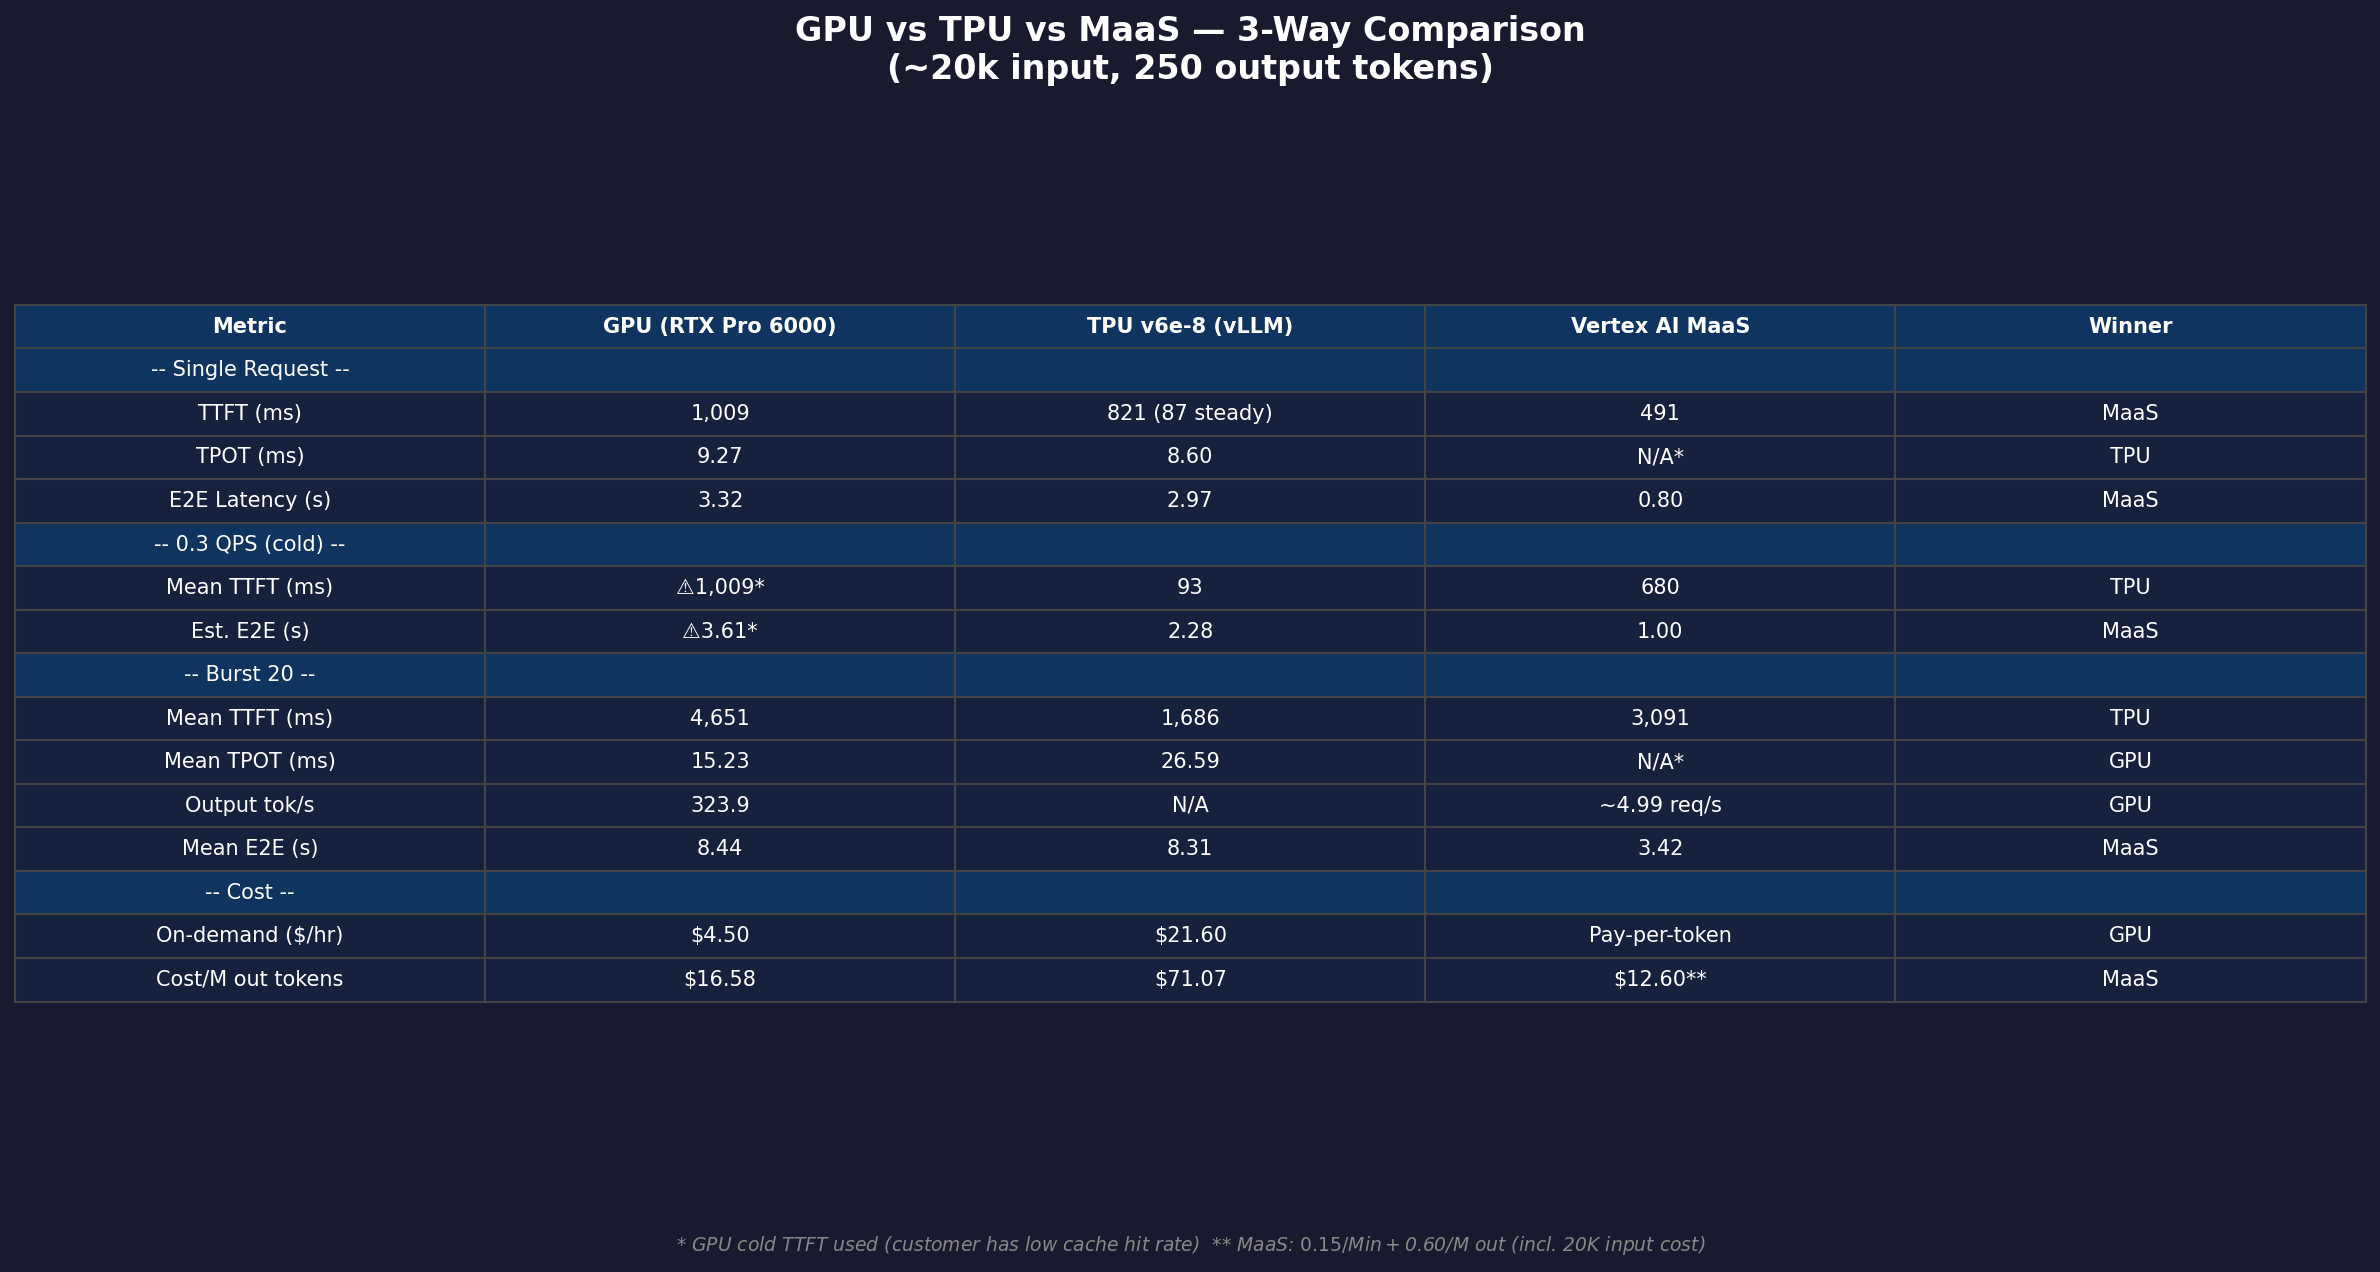
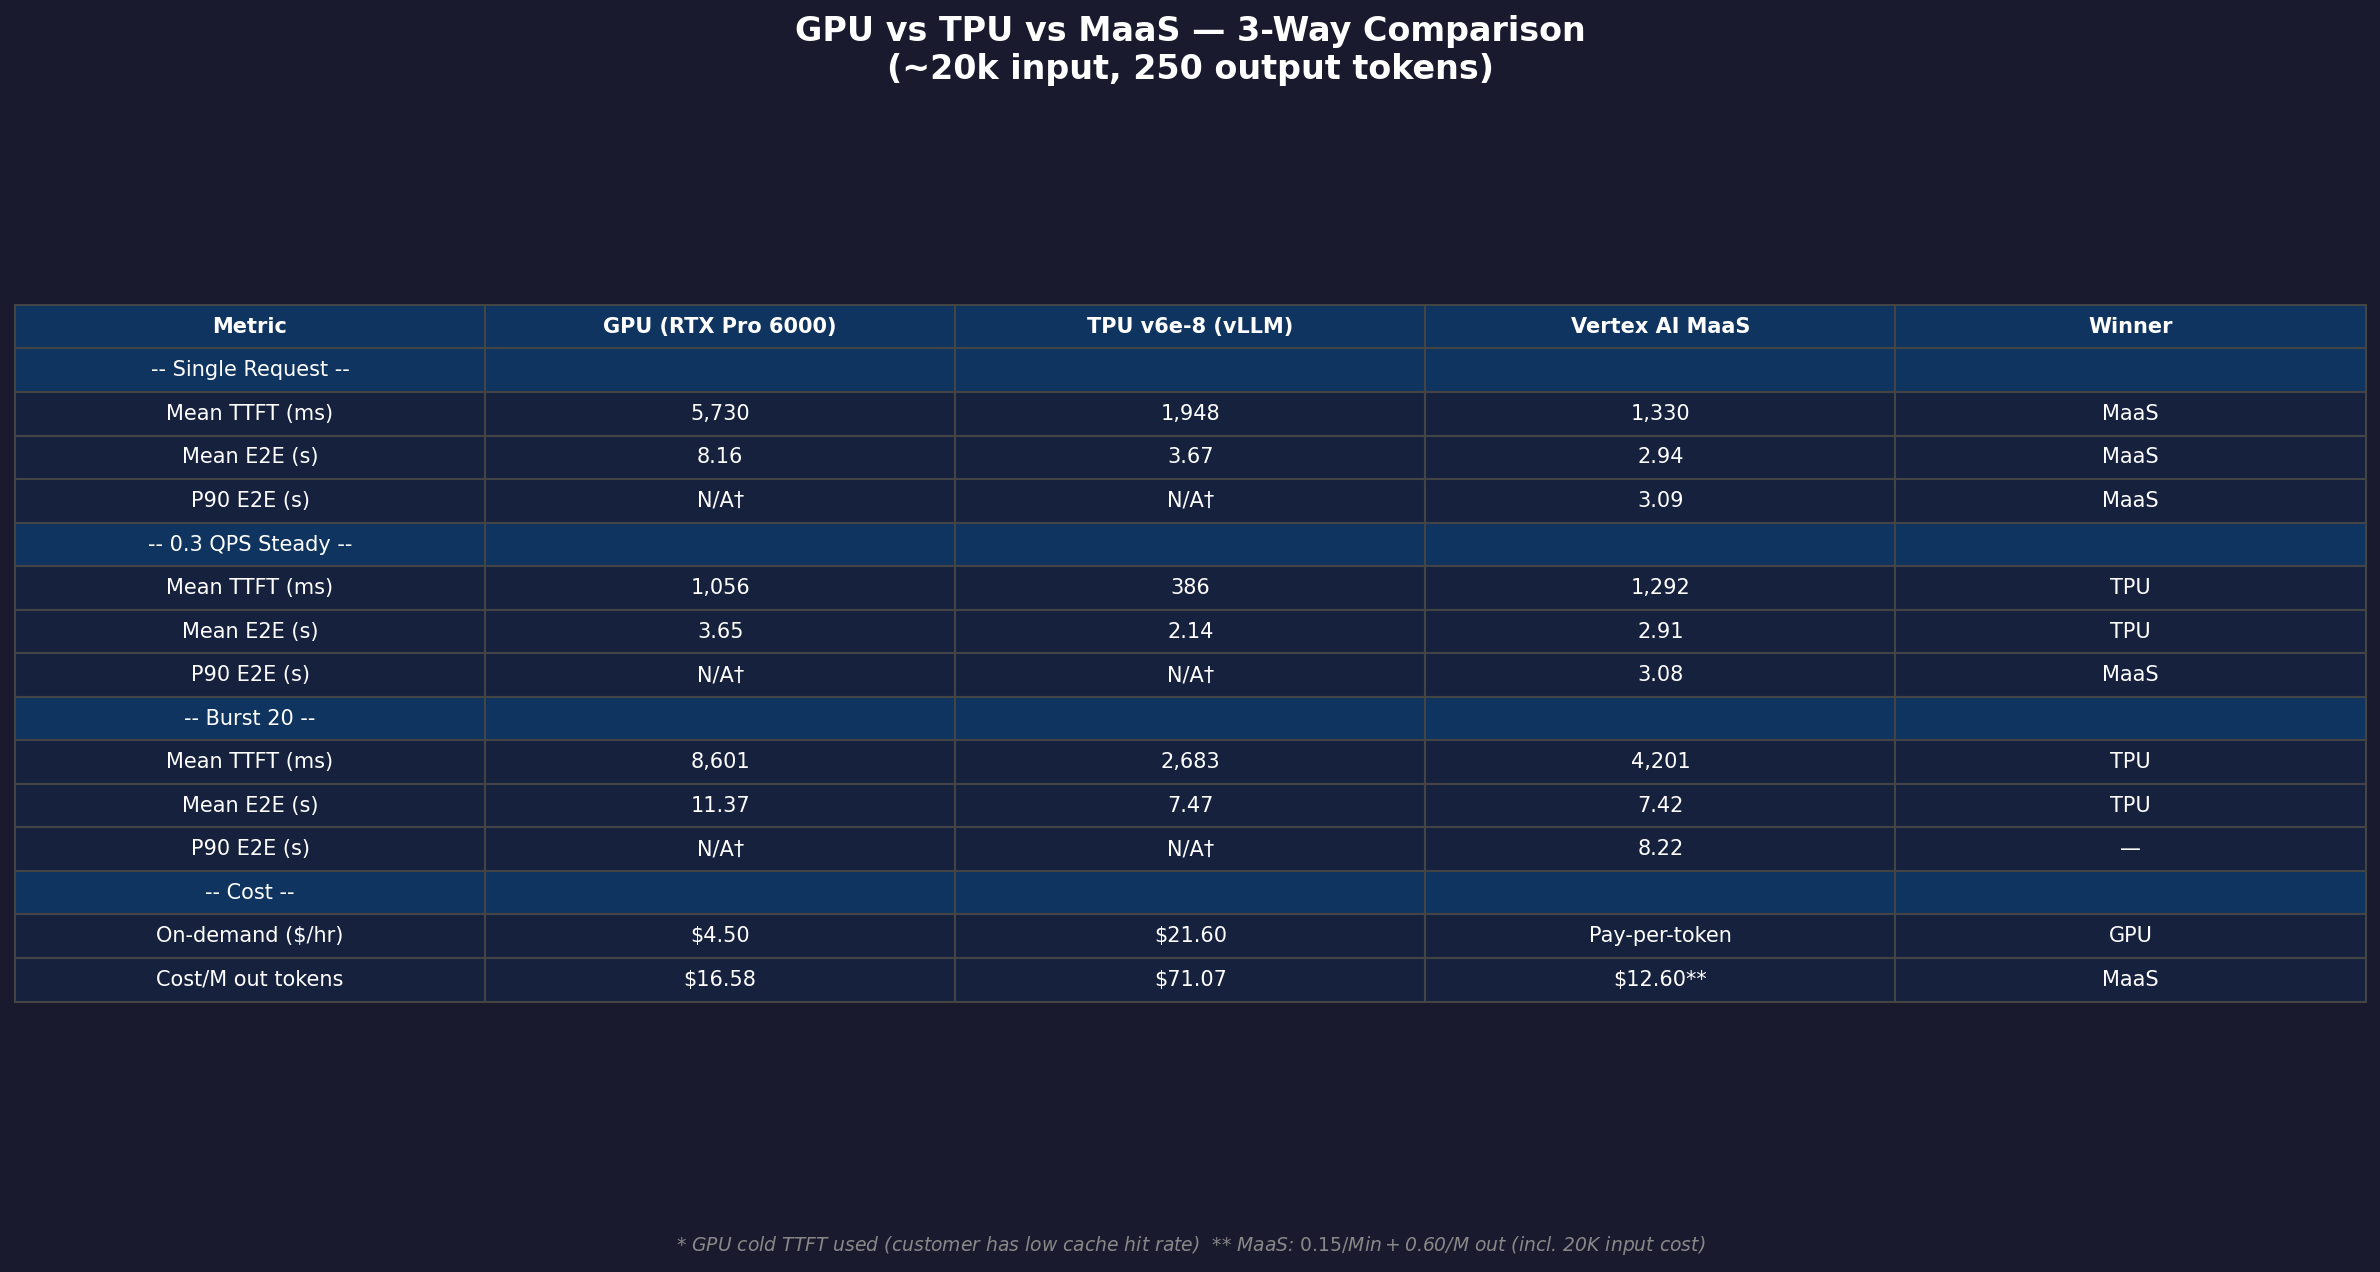
Add P90 E2E latency to plots 09, 10, 14 (customer SLA metric)
- Plot 09: Panels 2-4 now show P90 E2E for MaaS (mean† for GPU/TPU)
- Plot 10: Table includes P90 E2E rows for each scenario
- Plot 14: QPS + burst panels show both mean (dashed) and P90 (solid) E2E
- Burst sweep panel now shows E2E instead of TTFT (more customer-relevant)

diff --git a/scripts/generate-plots.py b/scripts/generate-plots.py
@@ -150,31 +150,41 @@ vai_burst = [
 # Fair comparison: unique prompts prevent prefix caching (like customer workload)
 # =============================================================================
 
+# Single request baseline (10 cold runs, fresh prompts)
+maas_baseline = {
+    'ttft_mean_ms': 1330.0,
+    'ttft_p90_ms': 1525.0,
+    'e2e_mean_s': 2.935,
+    'e2e_p90_s': 3.090,
+    'tpot_mean_ms': 6.34,
+    'tpot_p90_ms': 6.63,
+}
+
 # QPS sweep: 10 fresh random prompts per rate
 maas_qps = [
-    # (target_qps, mean_ttft_ms, median_ttft_ms, p99_ttft_ms, mean_latency_s, req_throughput)
-    (0.10, 1274.5, 1264.7, 1371.3, 2.903, 0.109),
-    (0.15, 1396.7, 1418.4, 1577.9, 3.024, 0.150),
-    (0.20, 1311.1, 1292.2, 1401.4, 2.941, 0.200),
-    (0.25, 1284.1, 1289.9, 1369.9, 2.945, 0.250),
-    (0.30, 1292.0, 1265.9, 1451.4, 2.912, 0.300),
-    (0.40, 1335.4, 1369.2, 1486.1, 3.005, 0.400),
-    (0.50, 1283.6, 1242.8, 1471.5, 2.932, 0.500),
-    (0.70, 1276.5, 1260.4, 1435.3, 3.273, 0.700),
-    (1.00, 1303.3, 1229.7, 1570.0, 3.371, 1.000),
+    # (target_qps, mean_ttft_ms, median_ttft_ms, p99_ttft_ms, mean_latency_s, req_throughput, p90_ttft_ms, p90_e2e_s)
+    (0.10, 1274.5, 1264.7, 1371.3, 2.903, 0.109, 1347.6, 2.935),
+    (0.15, 1396.7, 1418.4, 1577.9, 3.024, 0.150, 1527.3, 3.142),
+    (0.20, 1311.1, 1292.2, 1401.4, 2.941, 0.200, 1380.1, 3.052),
+    (0.25, 1284.1, 1289.9, 1369.9, 2.945, 0.250, 1344.7, 3.056),
+    (0.30, 1292.0, 1265.9, 1451.4, 2.912, 0.300, 1446.5, 3.079),
+    (0.40, 1335.4, 1369.2, 1486.1, 3.005, 0.400, 1440.3, 3.094),
+    (0.50, 1283.6, 1242.8, 1471.5, 2.932, 0.500, 1399.2, 3.054),
+    (0.70, 1276.5, 1260.4, 1435.3, 3.273, 0.700, 1378.9, 3.798),
+    (1.00, 1303.3, 1229.7, 1570.0, 3.371, 1.000, 1568.3, 3.610),
 ]
 
 # Burst sweep: all requests simultaneous, fresh random prompts
 maas_burst = [
-    # (N, mean_ttft_ms, median_ttft_ms, p99_ttft_ms, mean_latency_s, req_throughput)
-    ( 1, 1484.4, 1484.4, 1484.4, 3.805, 0.263),
-    ( 2, 1533.1, 1533.1, 1533.3, 3.635, 0.550),
-    ( 5, 1655.4, 1656.5, 2237.5, 3.925, 1.274),
-    ( 8, 1836.4, 1742.9, 2305.0, 4.450, 1.798),
-    (10, 2391.5, 2178.3, 3294.7, 5.120, 1.953),
-    (15, 3273.6, 3187.9, 3767.6, 6.169, 2.431),
-    (20, 4201.1, 4195.0, 5376.2, 7.423, 2.694),
-    (30, 5594.4, 5535.1, 6918.3, 9.058, 3.312),
+    # (N, mean_ttft_ms, median_ttft_ms, p99_ttft_ms, mean_latency_s, req_throughput, p90_ttft_ms, p90_e2e_s)
+    ( 1, 1484.4, 1484.4, 1484.4, 3.805, 0.263, 0.0, 0.000),
+    ( 2, 1533.1, 1533.1, 1533.3, 3.635, 0.550, 1533.2, 3.793),
+    ( 5, 1655.4, 1656.5, 2237.5, 3.925, 1.274, 2028.9, 4.204),
+    ( 8, 1836.4, 1742.9, 2305.0, 4.450, 1.798, 2116.2, 4.951),
+    (10, 2391.5, 2178.3, 3294.7, 5.120, 1.953, 2824.0, 6.106),
+    (15, 3273.6, 3187.9, 3767.6, 6.169, 2.431, 3703.2, 7.302),
+    (20, 4201.1, 4195.0, 5376.2, 7.423, 2.694, 4964.0, 8.221),
+    (30, 5594.4, 5535.1, 6918.3, 9.058, 3.312, 6376.5, 9.903),
 ]
 
 # =============================================================================
@@ -473,43 +483,57 @@ def plot_09():
     ax.set_title('Single Request: Mean TTFT', fontweight='bold', color='#ffd700')
     ax.grid(True, axis='y')
 
-    # Panel 2: Single E2E (from baseline dicts and burst[0] data)
+    # Panel 2: Single E2E — P90 (customer SLA metric)
     ax = axes[0,1]
-    vals = [rtx_baseline['e2e_s'], calc_e2e(tpu_baseline['ttft_ms'], tpu_baseline['tpot_ms'])/1000, maas_burst[0][4]]
+    # GPU/TPU: estimate P90 ≈ mean (only mean available from vllm bench)
+    # MaaS: actual measured P90 from 10 runs
+    vals = [rtx_baseline['e2e_s'], calc_e2e(tpu_baseline['ttft_ms'], tpu_baseline['tpot_ms'])/1000, maas_baseline['e2e_p90_s']]
     bars = ax.bar(labels, vals, color=colors, alpha=0.85, edgecolor='white', linewidth=0.5, width=0.6)
-    for b, v in zip(bars, vals):
-        ax.text(b.get_x()+b.get_width()/2, b.get_height()+0.05, f'{v:.2f}s', ha='center', va='bottom', fontweight='bold', color='white', fontsize=12)
+    annot_labels = [f'{vals[0]:.2f}s\n(mean†)', f'{vals[1]:.2f}s\n(mean†)', f'{vals[2]:.2f}s\n(P90)']
+    for b, v, lbl in zip(bars, vals, annot_labels):
+        ax.text(b.get_x()+b.get_width()/2, b.get_height()+0.05, lbl, ha='center', va='bottom', fontweight='bold', color='white', fontsize=11)
     ax.set_ylabel('E2E Latency (s)')
-    ax.set_title('Single Request: Mean E2E Latency', fontweight='bold', color='#ffd700')
+    ax.set_title('Single Request: E2E Latency (P90 where available)', fontweight='bold', color='#ffd700')
     ax.grid(True, axis='y')
     ax.axhline(y=3.5, color='#ff6b6b', linestyle='--', alpha=0.3, label='3.5s target')
     ax.legend(facecolor='#16213e', edgecolor='#444')
 
-    # Panel 3: Burst 20 TTFT (from burst arrays, N=20 index)
+    # Panel 3: Burst 20 E2E — P90 for MaaS, mean for GPU/TPU
     ax = axes[1,0]
-    vals = [rtx_burst[6][3], tpu_burst[6][1], maas_burst[6][1]]
+    gpu_b20_e2e = calc_e2e(rtx_burst[6][3], rtx_burst[6][4]) / 1000
+    tpu_b20_e2e = calc_e2e(tpu_burst[6][1], tpu_burst[6][4]) / 1000
+    maas_b20_p90 = maas_burst[6][7]  # P90 E2E
+    vals = [gpu_b20_e2e, tpu_b20_e2e, maas_b20_p90]
     bars = ax.bar(labels, vals, color=colors, alpha=0.85, edgecolor='white', linewidth=0.5, width=0.6)
-    for b, v in zip(bars, vals):
-        ax.text(b.get_x()+b.get_width()/2, b.get_height()+200, f'{v/1000:.1f}s', ha='center', va='bottom', fontweight='bold', color='white', fontsize=12)
-    ax.set_ylabel('Mean TTFT (ms)')
-    ax.set_title('Burst 20: Mean TTFT', fontweight='bold', color='#ffd700')
+    annot_labels = [f'{vals[0]:.1f}s\n(mean†)', f'{vals[1]:.1f}s\n(mean†)', f'{vals[2]:.1f}s\n(P90)']
+    for b, v, lbl in zip(bars, vals, annot_labels):
+        ax.text(b.get_x()+b.get_width()/2, b.get_height()+0.15, lbl, ha='center', va='bottom', fontweight='bold', color='white', fontsize=11)
+    ax.set_ylabel('E2E Latency (s)')
+    ax.set_title('Burst 20: E2E Latency (P90 where available)', fontweight='bold', color='#ffd700')
+    ax.axhline(y=3.5, color='#ff6b6b', linestyle='--', alpha=0.3, label='3.5s target')
+    ax.legend(facecolor='#16213e', edgecolor='#444')
     ax.grid(True, axis='y')
 
-    # Panel 4: Burst TTFT comparison curve (GPU, TPU, MaaS only)
+    # Panel 4: Burst E2E sweep — mean for GPU/TPU, P90 for MaaS
     ax = axes[1,1]
-    rtx_burst_ttft = [d[3] for d in rtx_burst]
     rtx_burst_n = [d[0] for d in rtx_burst]
-    ax.plot(rtx_burst_n, [t/1000 for t in rtx_burst_ttft], 's-', color='#00ff88', linewidth=2, markersize=8, label='GPU (RTX)')
+    rtx_burst_e2e = [calc_e2e(d[3], d[4])/1000 for d in rtx_burst]
+    ax.plot(rtx_burst_n, rtx_burst_e2e, 's-', color='#00ff88', linewidth=2, markersize=8, label='GPU mean E2E')
     tpu_bn = [d[0] for d in tpu_burst]
-    tpu_bt = [d[1]/1000 for d in tpu_burst]
-    ax.plot(tpu_bn, tpu_bt, 'D-', color='#ff6b6b', linewidth=2, markersize=8, label='TPU v6e-8', zorder=4)
+    tpu_be2e = [calc_e2e(d[1], d[4])/1000 for d in tpu_burst]
+    ax.plot(tpu_bn, tpu_be2e, 'D-', color='#ff6b6b', linewidth=2, markersize=8, label='TPU mean E2E', zorder=4)
+    # MaaS: show both mean and P90
     maas_burst_n = [d[0] for d in maas_burst]
-    maas_burst_ttft = [d[1] for d in maas_burst]
-    ax.plot(maas_burst_n, [t/1000 for t in maas_burst_ttft], '^-', color='#bb86fc', linewidth=2, markersize=8, label='Vertex AI MaaS')
+    maas_burst_mean = [d[4] for d in maas_burst]
+    maas_burst_p90 = [d[7] for d in maas_burst if d[7] > 0]
+    maas_burst_n_p90 = [d[0] for d in maas_burst if d[7] > 0]
+    ax.plot(maas_burst_n, maas_burst_mean, '^--', color='#bb86fc', linewidth=1.5, markersize=7, alpha=0.5, label='MaaS mean E2E')
+    ax.plot(maas_burst_n_p90, maas_burst_p90, '^-', color='#bb86fc', linewidth=2.5, markersize=9, label='MaaS P90 E2E', zorder=5)
+    ax.axhline(y=3.5, color='#ff6b6b', linestyle='--', alpha=0.3, label='3.5s target')
     ax.set_xlabel('Burst Size (N concurrent)', color='#ccc')
-    ax.set_ylabel('Mean TTFT (s)')
-    ax.set_title('Burst Sweep: TTFT Comparison', fontweight='bold', color='#ffd700')
-    ax.legend(facecolor='#16213e', edgecolor='#444')
+    ax.set_ylabel('E2E Latency (s)')
+    ax.set_title('Burst Sweep: E2E Latency (P90 for MaaS)', fontweight='bold', color='#ffd700')
+    ax.legend(facecolor='#16213e', edgecolor='#444', fontsize=8)
     ax.grid(True)
 
     plt.tight_layout(rect=[0, 0, 1, 0.94])
@@ -534,17 +558,17 @@ def plot_10():
     col_labels = ['Metric', 'GPU (RTX Pro 6000)', 'TPU v6e-8 (vLLM)', 'Vertex AI MaaS', 'Winner']
     table_data = [
         ['-- Single Request --', '', '', '', ''],
-        ['TTFT (ms)', '1,009', '821 (87 steady)', '491', 'MaaS'],
-        ['TPOT (ms)', '9.27', '8.60', 'N/A*', 'TPU'],
-        ['E2E Latency (s)', '3.32', '2.97', '0.80', 'MaaS'],
-        ['-- 0.3 QPS (cold) --', '', '', '', ''],
-        ['Mean TTFT (ms)', '⚠1,009*', '93', '680', 'TPU'],
-        ['Est. E2E (s)', '⚠3.61*', '2.28', '1.00', 'MaaS'],
+        ['Mean TTFT (ms)', f'{rtx_baseline["ttft_ms"]:,.0f}', f'{tpu_baseline["ttft_ms"]:,.0f}', f'{maas_baseline["ttft_mean_ms"]:,.0f}', 'MaaS'],
+        ['Mean E2E (s)', f'{rtx_baseline["e2e_s"]:.2f}', f'{calc_e2e(tpu_baseline["ttft_ms"], tpu_baseline["tpot_ms"])/1000:.2f}', f'{maas_baseline["e2e_mean_s"]:.2f}', 'MaaS'],
+        ['P90 E2E (s)', 'N/A†', 'N/A†', f'{maas_baseline["e2e_p90_s"]:.2f}', 'MaaS'],
+        ['-- 0.3 QPS Steady --', '', '', '', ''],
+        ['Mean TTFT (ms)', f'{rtx_qps[4][3]:,.0f}', f'{tpu_qps[4][1]:,.0f}', f'{maas_qps[4][1]:,.0f}', 'TPU'],
+        ['Mean E2E (s)', f'{calc_e2e(rtx_qps[4][3], rtx_qps[4][4])/1000:.2f}', f'{calc_e2e(tpu_qps[4][1], tpu_qps[4][4])/1000:.2f}', f'{maas_qps[4][4]:.2f}', 'TPU'],
+        ['P90 E2E (s)', 'N/A†', 'N/A†', f'{maas_qps[4][7]:.2f}', 'MaaS'],
         ['-- Burst 20 --', '', '', '', ''],
-        ['Mean TTFT (ms)', '4,651', '1,686', '3,091', 'TPU'],
-        ['Mean TPOT (ms)', '15.23', '26.59', 'N/A*', 'GPU'],
-        ['Output tok/s', '323.9', 'N/A', '~4.99 req/s', 'GPU'],
-        ['Mean E2E (s)', '8.44', '8.31', '3.42', 'MaaS'],
+        ['Mean TTFT (ms)', f'{rtx_burst[6][3]:,.0f}', f'{tpu_burst[6][1]:,.0f}', f'{maas_burst[6][1]:,.0f}', 'TPU'],
+        ['Mean E2E (s)', f'{calc_e2e(rtx_burst[6][3], rtx_burst[6][4])/1000:.2f}', f'{calc_e2e(tpu_burst[6][1], tpu_burst[6][4])/1000:.2f}', f'{maas_burst[6][4]:.2f}', 'TPU'],
+        ['P90 E2E (s)', 'N/A†', 'N/A†', f'{maas_burst[6][7]:.2f}', '—'],
         ['-- Cost --', '', '', '', ''],
         ['On-demand ($/hr)', '$4.50', '$21.60', 'Pay-per-token', 'GPU'],
         ['Cost/M out tokens', '$16.58', '$71.07', '$12.60**', 'MaaS'],
@@ -602,25 +626,31 @@ def plot_14():
     ax.legend(facecolor='#16213e', edgecolor='#444')
     ax.grid(True)
 
-    # QPS sweep E2E latency
+    # QPS sweep E2E latency (mean + P90)
     ax = axes[0,1]
     maas_lat = [d[4] for d in maas_qps]
-    ax.plot(qps_rates, maas_lat, 'o-', color='#bb86fc', linewidth=2.5, markersize=8, label='MaaS')
+    maas_lat_p90 = [d[7] for d in maas_qps]
+    ax.plot(qps_rates, maas_lat, 'o--', color='#bb86fc', linewidth=1.5, markersize=7, alpha=0.5, label='Mean E2E')
+    ax.plot(qps_rates, maas_lat_p90, 'o-', color='#bb86fc', linewidth=2.5, markersize=8, label='P90 E2E')
     ax.axhline(y=3.5, color='#ff6b6b', linestyle='--', alpha=0.3, label='3.5s target')
     ax.set_xlabel('Request Rate (QPS)')
-    ax.set_ylabel('Mean E2E Latency (s)')
-    ax.set_title('QPS Sweep: E2E Latency', fontweight='bold', color='#ffd700')
+    ax.set_ylabel('E2E Latency (s)')
+    ax.set_title('QPS Sweep: E2E Latency (Mean & P90)', fontweight='bold', color='#ffd700')
     ax.legend(facecolor='#16213e', edgecolor='#444')
     ax.grid(True)
 
-    # Burst TTFT
+    # Burst E2E (mean + P90)
     ax = axes[1,0]
     burst_n = [d[0] for d in maas_burst]
-    burst_ttft = [d[1] for d in maas_burst]
-    ax.plot(burst_n, [t/1000 for t in burst_ttft], 'o-', color='#bb86fc', linewidth=2.5, markersize=8, label='MaaS')
+    burst_mean = [d[4] for d in maas_burst]
+    burst_p90 = [d[7] for d in maas_burst if d[7] > 0]
+    burst_n_p90 = [d[0] for d in maas_burst if d[7] > 0]
+    ax.plot(burst_n, burst_mean, 'o--', color='#bb86fc', linewidth=1.5, markersize=7, alpha=0.5, label='Mean E2E')
+    ax.plot(burst_n_p90, burst_p90, 'o-', color='#bb86fc', linewidth=2.5, markersize=8, label='P90 E2E')
+    ax.axhline(y=3.5, color='#ff6b6b', linestyle='--', alpha=0.3, label='3.5s target')
     ax.set_xlabel('Burst Size (N concurrent)')
-    ax.set_ylabel('Mean TTFT (s)')
-    ax.set_title('Burst Sweep: TTFT vs Concurrency', fontweight='bold', color='#ffd700')
+    ax.set_ylabel('E2E Latency (s)')
+    ax.set_title('Burst Sweep: E2E Latency (Mean & P90)', fontweight='bold', color='#ffd700')
     ax.legend(facecolor='#16213e', edgecolor='#444')
     ax.grid(True)
 
